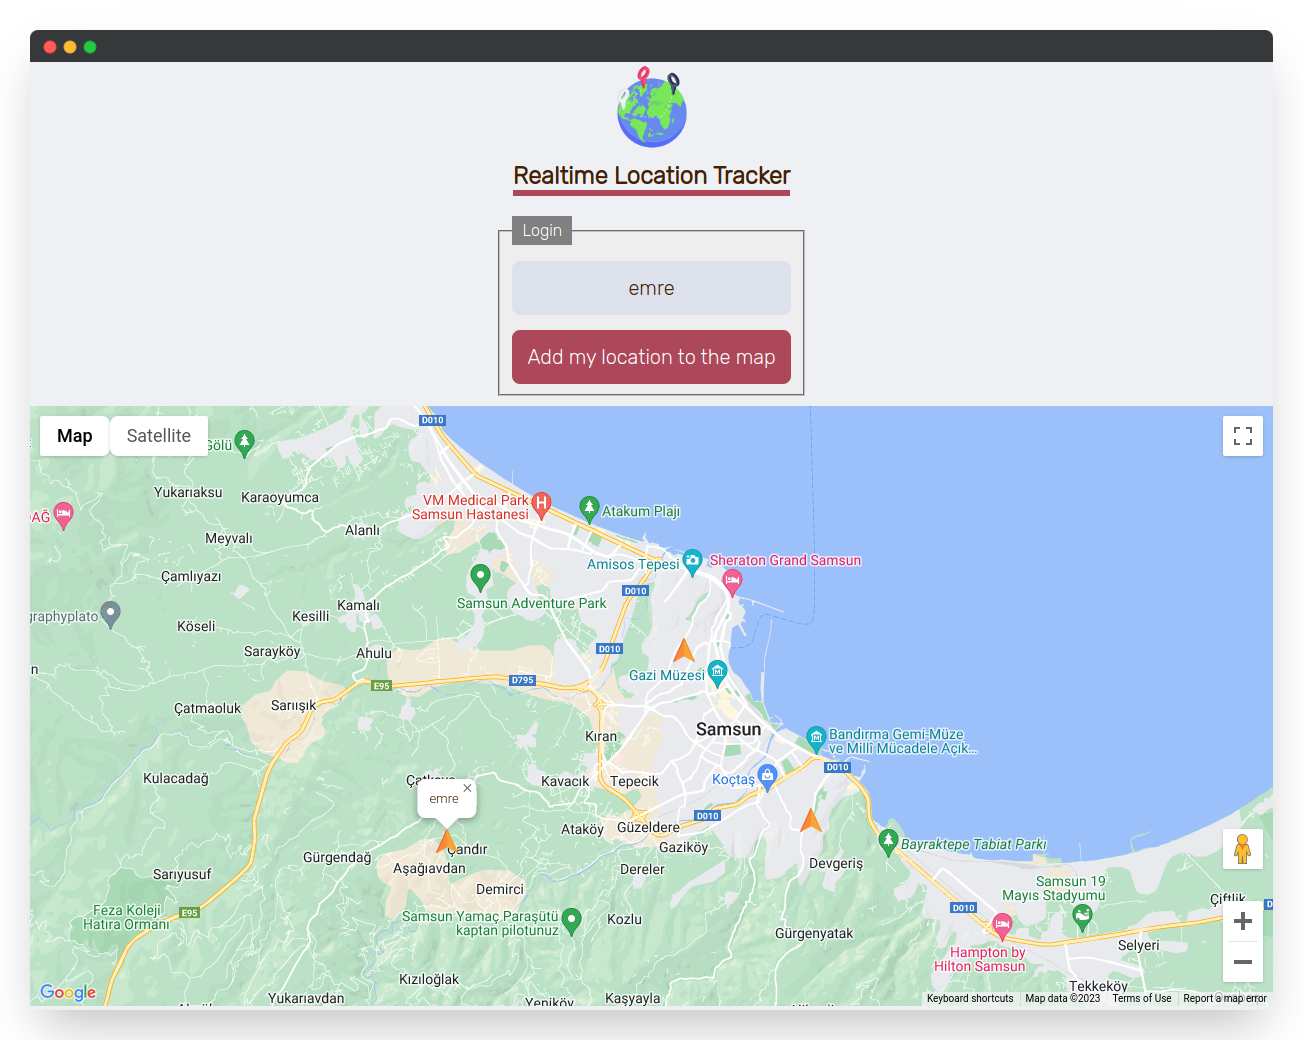
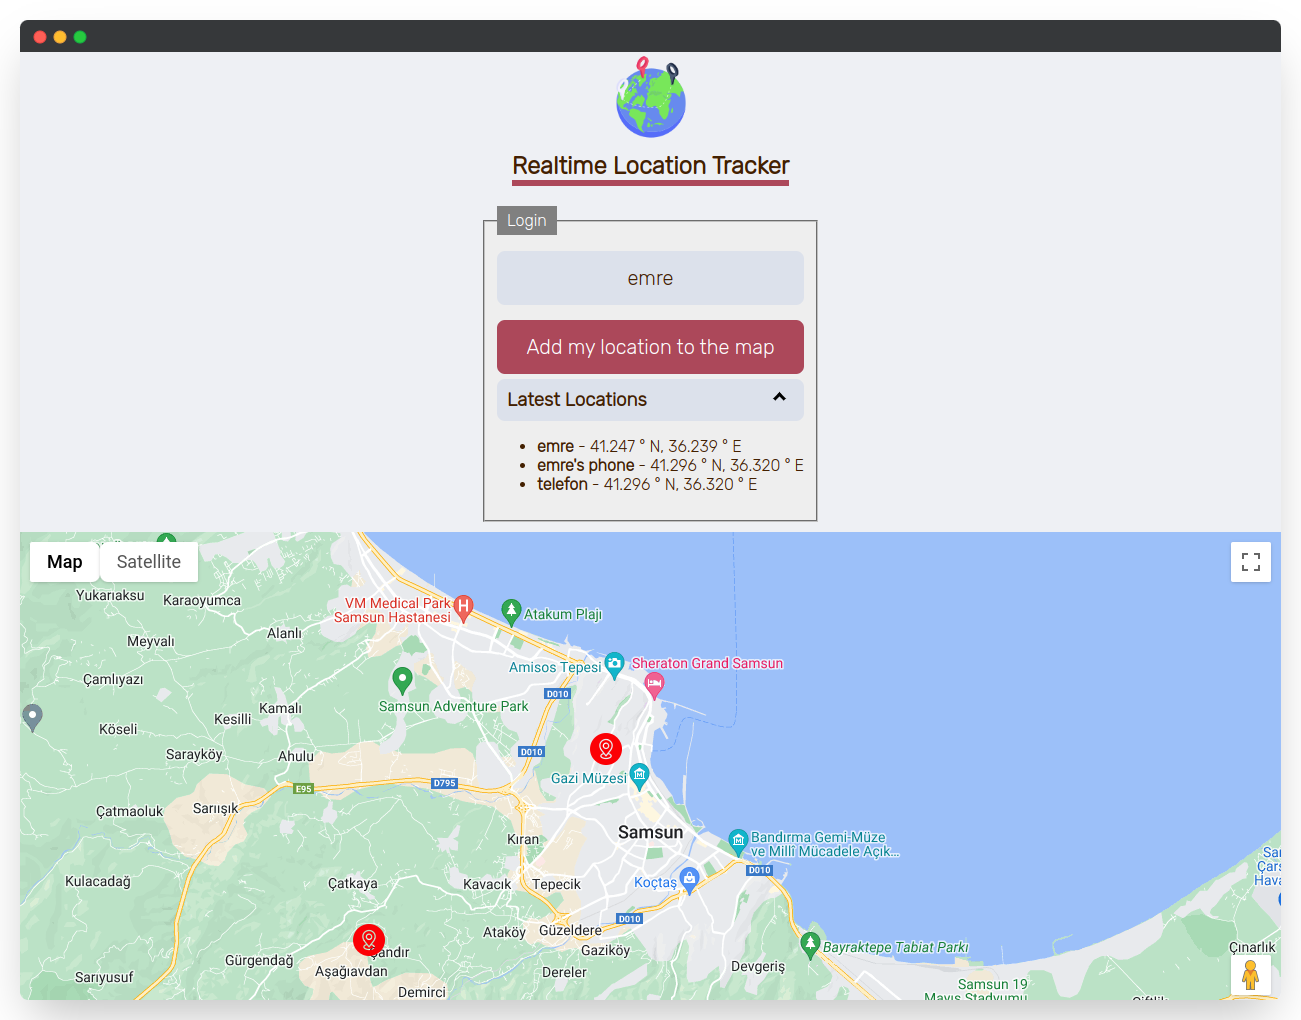
Added latest locations

diff --git a/index.js b/index.js
@@ -7,6 +7,9 @@ import {
   query,
   startAt,
   orderByChild,
+  get,
+  child,
+  limitToLast,
 } from "https://www.gstatic.com/firebasejs/9.19.0/firebase-database.js";
 const firebaseConfig = {
   databaseURL:
@@ -16,6 +19,9 @@ const app = initializeApp(firebaseConfig);
 const database = getDatabase(app);
 const nickName = document.getElementById("nickname");
 const addBtn = document.getElementById("addBtn");
+const showList = document.getElementById("showList");
+const locationList = document.getElementById("locationList");
+const arrow = document.getElementById("arrow");
 
 addBtn.addEventListener("click", () => {
   if (nickName.value == "") {
@@ -104,5 +110,28 @@ const removeMarkers = () => {
   setMapOnAll(null);
   markers = [];
 };
+
+showList.addEventListener('click', ()=>{
+  if(locationList.classList.value === "hide"){
+    locationList.className = "show"
+    arrow.className = "arrow up"
+
+    get(query(ref(database, 'locations'), limitToLast(7))).then((snapshot) => {
+      if (snapshot.exists()) {
+        locationList.innerHTML = Object.values(snapshot.val()).map((location)=>{
+            return `<li><b>${location.label}</b> - ${location.latitude.toString().slice(0, 6)} ° N, ${location.longitude.toString().slice(0, 6)} ° E</li>`
+        }).join('');
+      } else {
+        console.log("No data available");
+      }
+    }).catch((error) => {
+      console.error(error);
+    });
+    
+  }else{
+    locationList.className = "hide"
+    arrow.className = "arrow down"
+  }
+});
 
 console.log("Init database => ", database);

diff --git a/index.css b/index.css
@@ -9,6 +9,7 @@ body {
   font-family: "Rubik", sans-serif;
   background-color: #eef0f4;
   color: #432000;
+  user-select: none;
 }
 
 h1,
@@ -109,4 +110,47 @@ button:hover {
 /* When moving the mouse over the close button */
 .closebtn:hover {
   color: black;
+}
+
+.arrow {
+  border: solid black;
+  border-width: 0 3px 3px 0;
+  display: inline-block;
+  padding: 3px;
+}
+
+.up {
+  transform: rotate(-135deg);
+  -webkit-transform: rotate(-135deg);
+  float: right;
+  margin-right: 10px;
+  margin-top: 5px;
+}
+
+.down {
+  transform: rotate(45deg);
+  -webkit-transform: rotate(45deg);
+  float: right;
+  margin-right: 10px;
+  margin-top: 5px;
+}
+
+#latestLocations h3{
+  display: block;
+  padding: 10px;
+  background-color: #dce1eb;
+  border-radius: 8px;
+}
+
+#latestLocations h3:hover{
+  cursor: pointer;
+  background-color: #cedcf9;
+}
+
+.hide {
+  display: none;
+}
+
+.show {
+  display: block;
 }

diff --git a/index.html b/index.html
@@ -39,6 +39,10 @@
           <span class="closebtn" onclick="this.parentElement.style.display='none';">&times;</span>
           You can test it by logging in with two different devices.
         </div>
+        <div id="latestLocations">
+          <h3 id="showList">Latest Locations <i id="arrow" class="arrow down"></i></h3>
+          <ul id="locationList" class="hide"></ul>
+        </div>
       </fieldset>
       
       <div id="locations"></div>

diff --git a/README.md b/README.md
@@ -4,6 +4,7 @@ With the help of JavaScript, Firebase Realtime Database, and HTML Geolocation AP
 
 ## Features
 - Show realtime locations
+- Show latest locations (7) in database
 - Browser-based
 - Marker info
 
